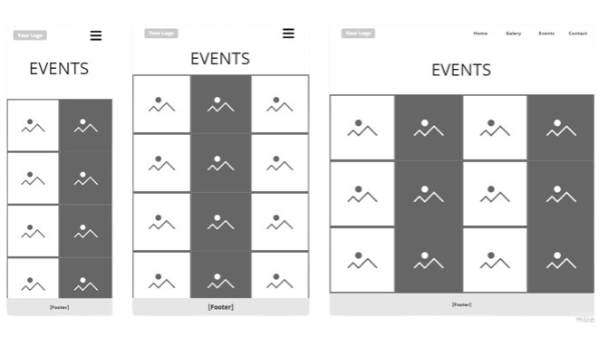
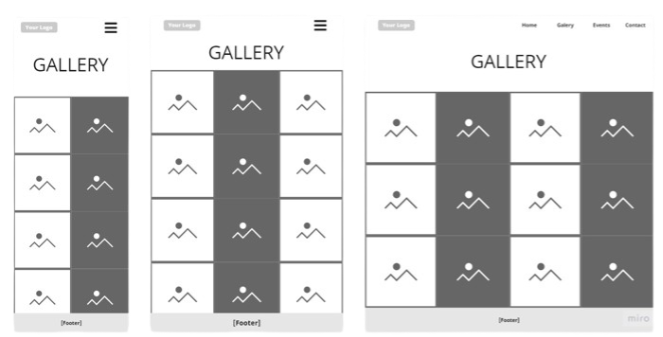
Doc: adding technogies used and wireframe images

diff --git a/README.md b/README.md
@@ -2,6 +2,8 @@
 
 A Halloween Hackathon
 
+
+# Table of contents
 - [Intro with SS from amiresponsive](#Intro-with-SS-from-amiresponsive)
 
 - [UX](#ux)
@@ -12,7 +14,7 @@ A Halloween Hackathon
         - [Returning user goals](#returning-user-goals)
     - [Structure of the website](#structure-of-the-website)
     - [Surface](#surface)
-
+- [Features](#features)
 - [Wireframes](#wireframes)
 - [Technology](#technology)
 - [Testing](#testing)
@@ -105,47 +107,92 @@ The website has below features:
 
     * This section contains information about why we celebrate Halloween, where it started etc.
 
-* ### Packages section
+* ### Gallery section
 
-    * This part has three packages to choose for a customers. All buttons are linked to offer site.
+    * This part has a silder with some of the gallery images 
 
-## About me
+* ### Horror Stories section
+    * This section has some short terrifying stories
 
-* About me gives information about Annie's life and her professional background.
+## Events
 
-## Offer
+* Contains a map where you can see the different events related to Halloween
 
-* This site provide packages description to customers.
-Here they can find more information and choose interesting offer.
+## Gallery
+
+* On this page there is an extensive gallery of people dressed in costumes in different parts of the world.
 
 ## Contact
 
 * Contact form is a main part on this site. User can contact by filling a form with interesting topic.
-Below a form there is a map with location of a fitness studio.
+
 
 ##  Future implementations
 
-* Create diet coach offer.
-* Add new site with class descriptions.
-* A blog site with fitness advises.
-* Login site for paid content including videos, meals ideas and recipes.
-
+* 
+* 
+* 
 
 [Back to Table of contents](#table-of-contents)
 
-Favicon:
+# Wireframes
 
-Hero image:
+## Home
 
-Gallery images:
+![Home_wireframe](./assets/img/wireframes/home.png)
+
+## Events
+
+![Events_wireframe](./assets/img/wireframes/events.png)
+
+## Gallery
+
+![Gallery_wireframe](./assets/img/wireframes/gallery.png)
+
+
+## Contact
+
+![Contact_wireframe](./assets/img/wireframes/contact.png)
 
 
 
-- Future features
 
-* Technology used:
-- Languages
-- Frameworks, libraries and programs used
+
+
+# Technologies used
+
+### HTML5
+* As a structure language.
+
+### CSS
+* As a style language.
+
+### Bootstrap 
+* Bootstrap@5.1.3 as a CSS framework to keep responsive, mobile first aproach.
+
+### Font Awesome
+* As an icon library for a social links.
+
+### Google fonts
+* As a font resource.
+
+### GitHub
+* As a software hosting platform to keep project in a remote location.
+
+### Git
+* As a version-control system tracking.
+
+### Gitpod
+* As a development hosting platform.
+
+### Wireframe.cc
+* As a wireframing tool.
+
+### GNU Image Manipulation Program [GIMP]
+* As an image editor.
+
+
+[Back to Table of contents](#table-of-contents)
 
 
 
